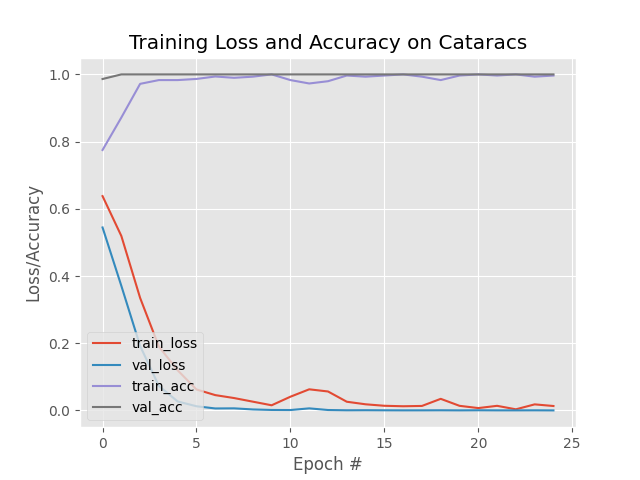
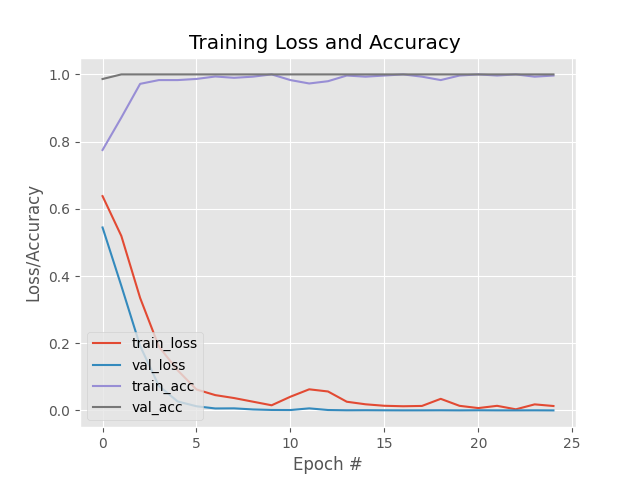
rev

Changed region(s): [[0.1875, 0.0625, 0.8125, 0.125]]

diff --git a/train.py b/train.py
@@ -75,7 +75,7 @@ plt.plot(np.arange(0, N), H.history["loss"], label="train_loss")
 plt.plot(np.arange(0, N), H.history["val_loss"], label="val_loss")
 plt.plot(np.arange(0, N), H.history["accuracy"], label="train_acc")
 plt.plot(np.arange(0, N), H.history["val_accuracy"], label="val_acc")
-plt.title("Training Loss and Accuracy on Cataracs")
+plt.title("Training Loss and Accuracy")
 plt.xlabel("Epoch #")
 plt.ylabel("Loss/Accuracy")
 plt.legend(loc="lower left")
